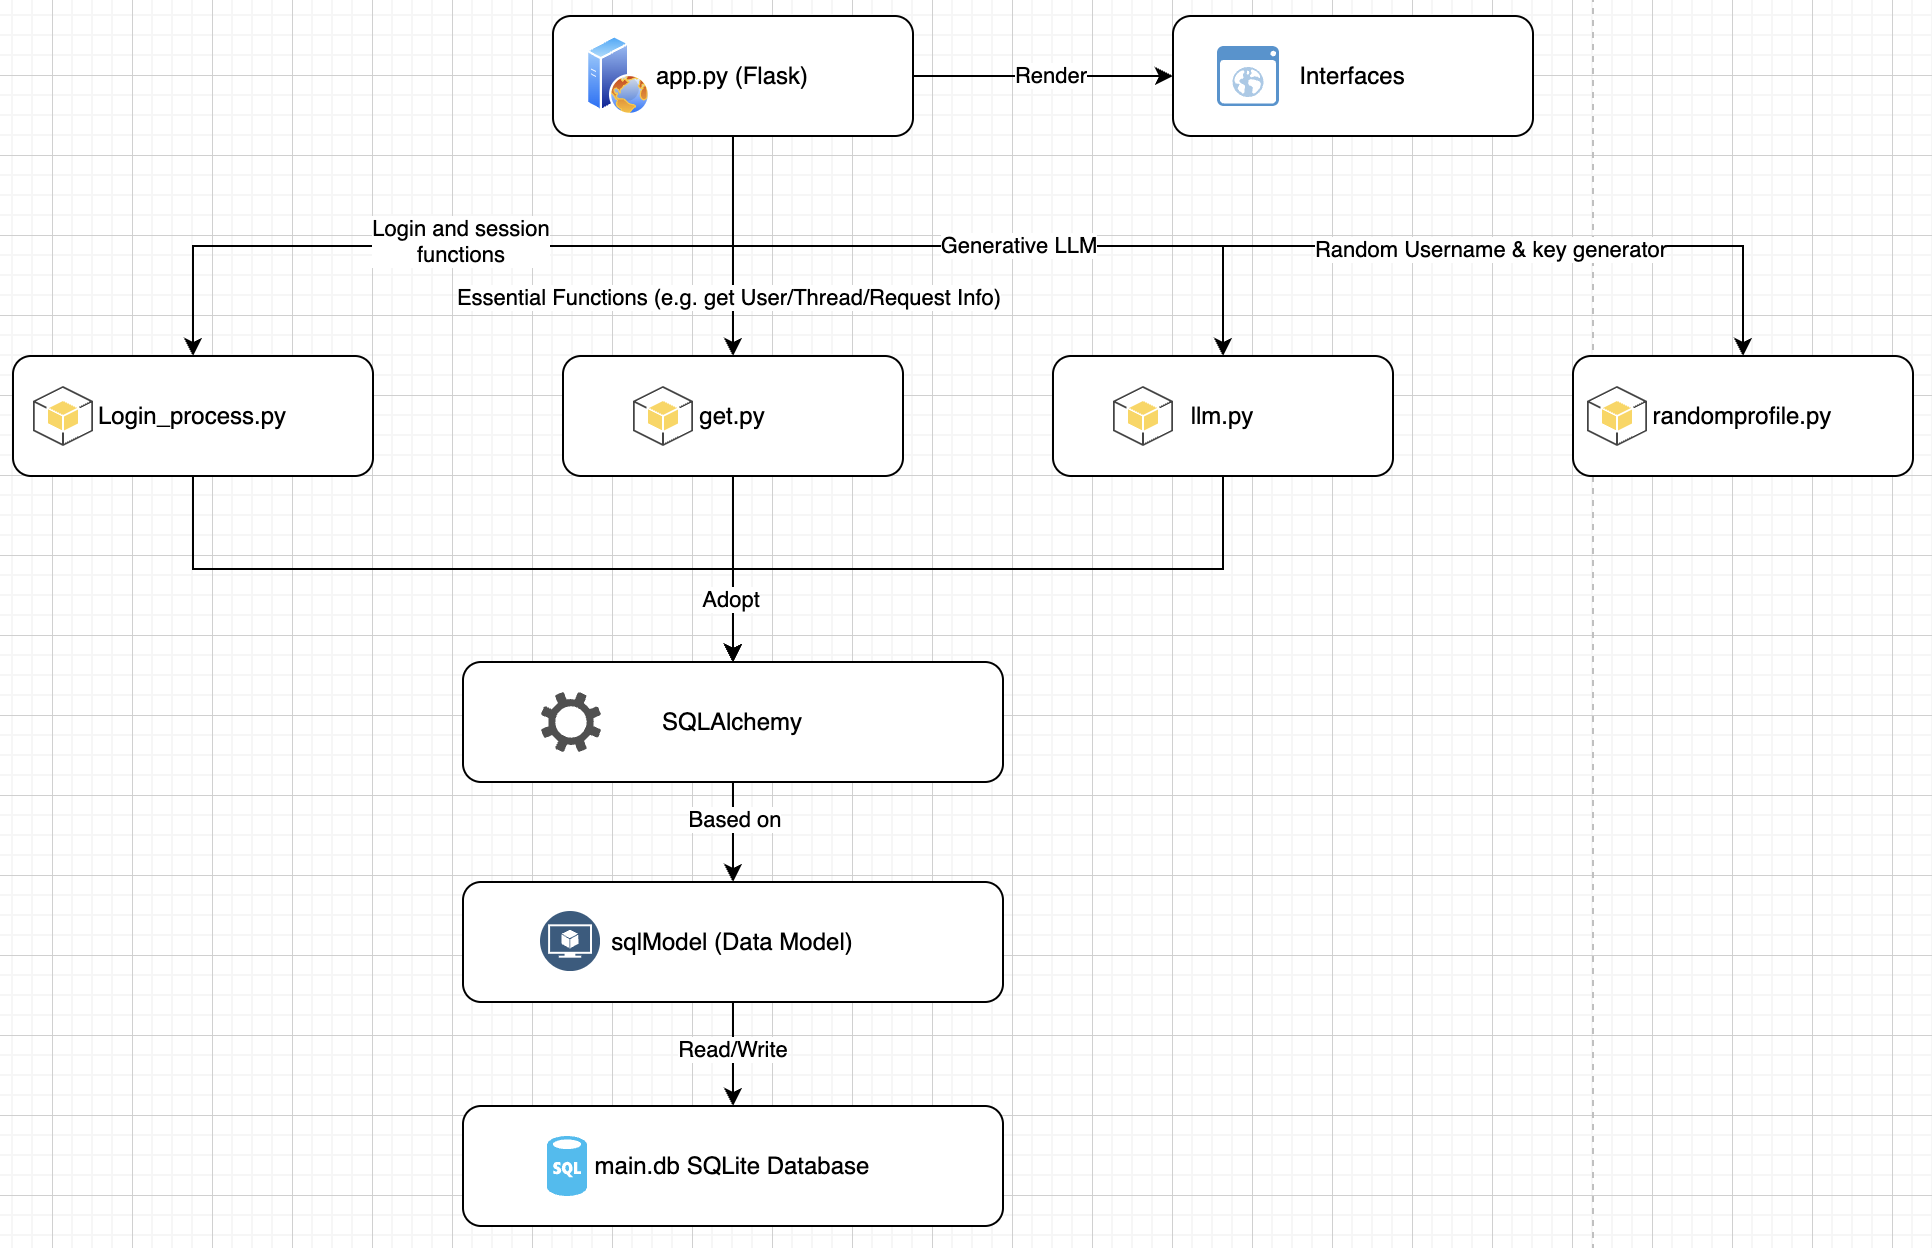
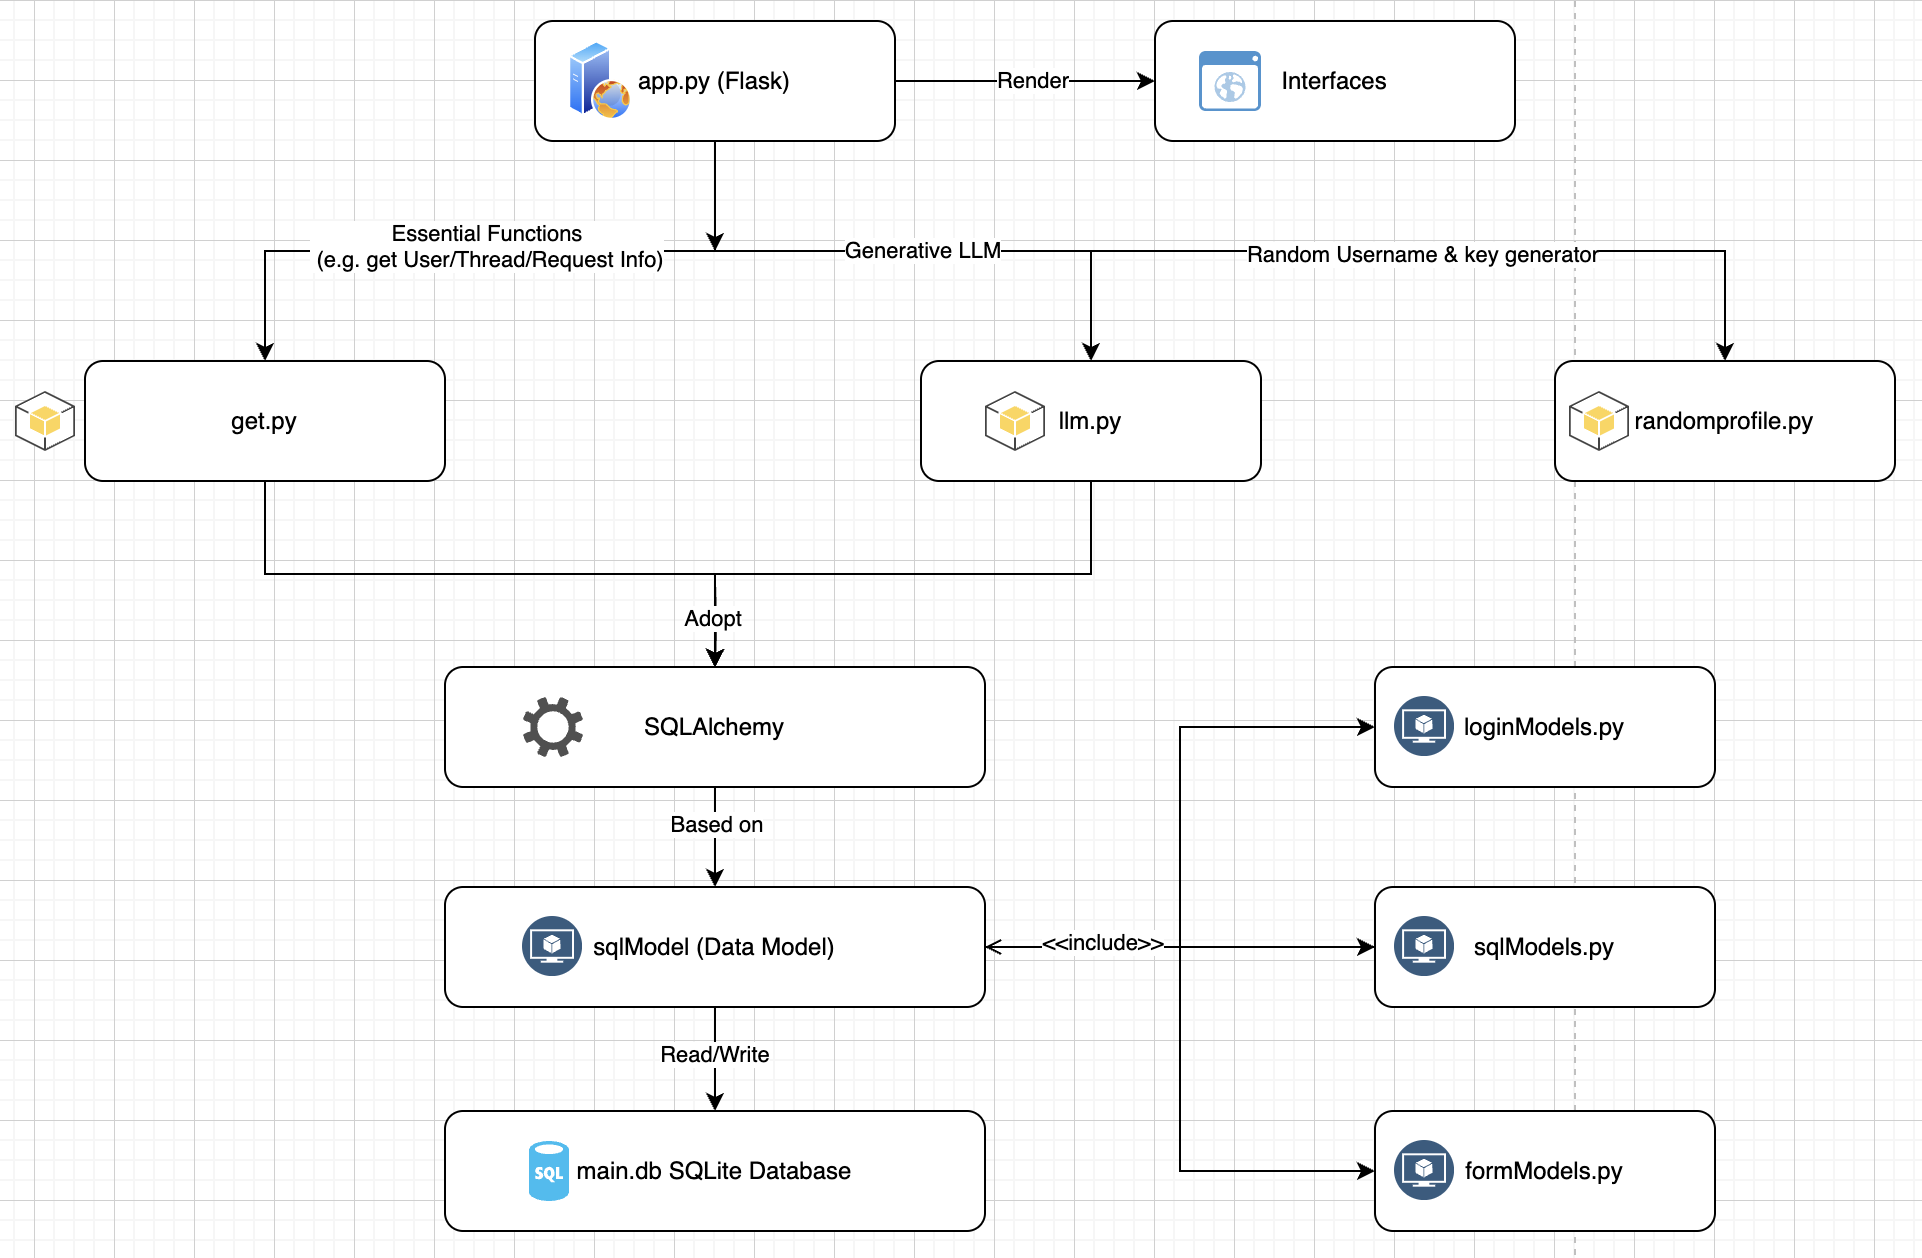
Update structure and readme

diff --git a/readme.md b/readme.md
@@ -1,7 +1,5 @@
 # Assignment 2 Group Project  
   
-## Note: This is a private repository. Do not share it with others.  
-  
 ### Due date: 5 PM on Sunday, May 19th, 2024 (GMT+8)  
   
 #### Description  
@@ -11,8 +9,8 @@ The Assignment 2 is asked to build a request forum application, which allows use
 ![Program Structure](structure.png)  
 This program is based on the following structure:  
 - The `app.py` is main application and used for template rendering, content structuring and some data processing  
-- This program contains `get.py` and `login_process.py`. Some functions (e.g. Requrements, Shop, Community and shop) are rely on the functions in `get.py` to get or set the data from the database.  
-- The `login_process.py` is for user login/registration process. When user try to login/register, this file will used for read and verify user input data or save valid data to the database. Also, when user login successful, this file will help to set session. Besides, when user triggered `Logout`, this fill will help to destroy sessions.  
+- This program contains `get.py`. Some functions (e.g. Requrements, Shop, Community and shop) are rely on the functions in `get.py` to get or set the data from the database.  
+- The `loginModels.py` is for user login/registration process. When user is authenticated, the user ID will be stored based on this model and available for read during the session till logout.  
 - The `sqlmodel.py` is used for communication between program and SQLite database. It contains data models, and to help to get/set data from/to database  
 - This program uses SQLite database (`database/main.db`) to store data  
   
